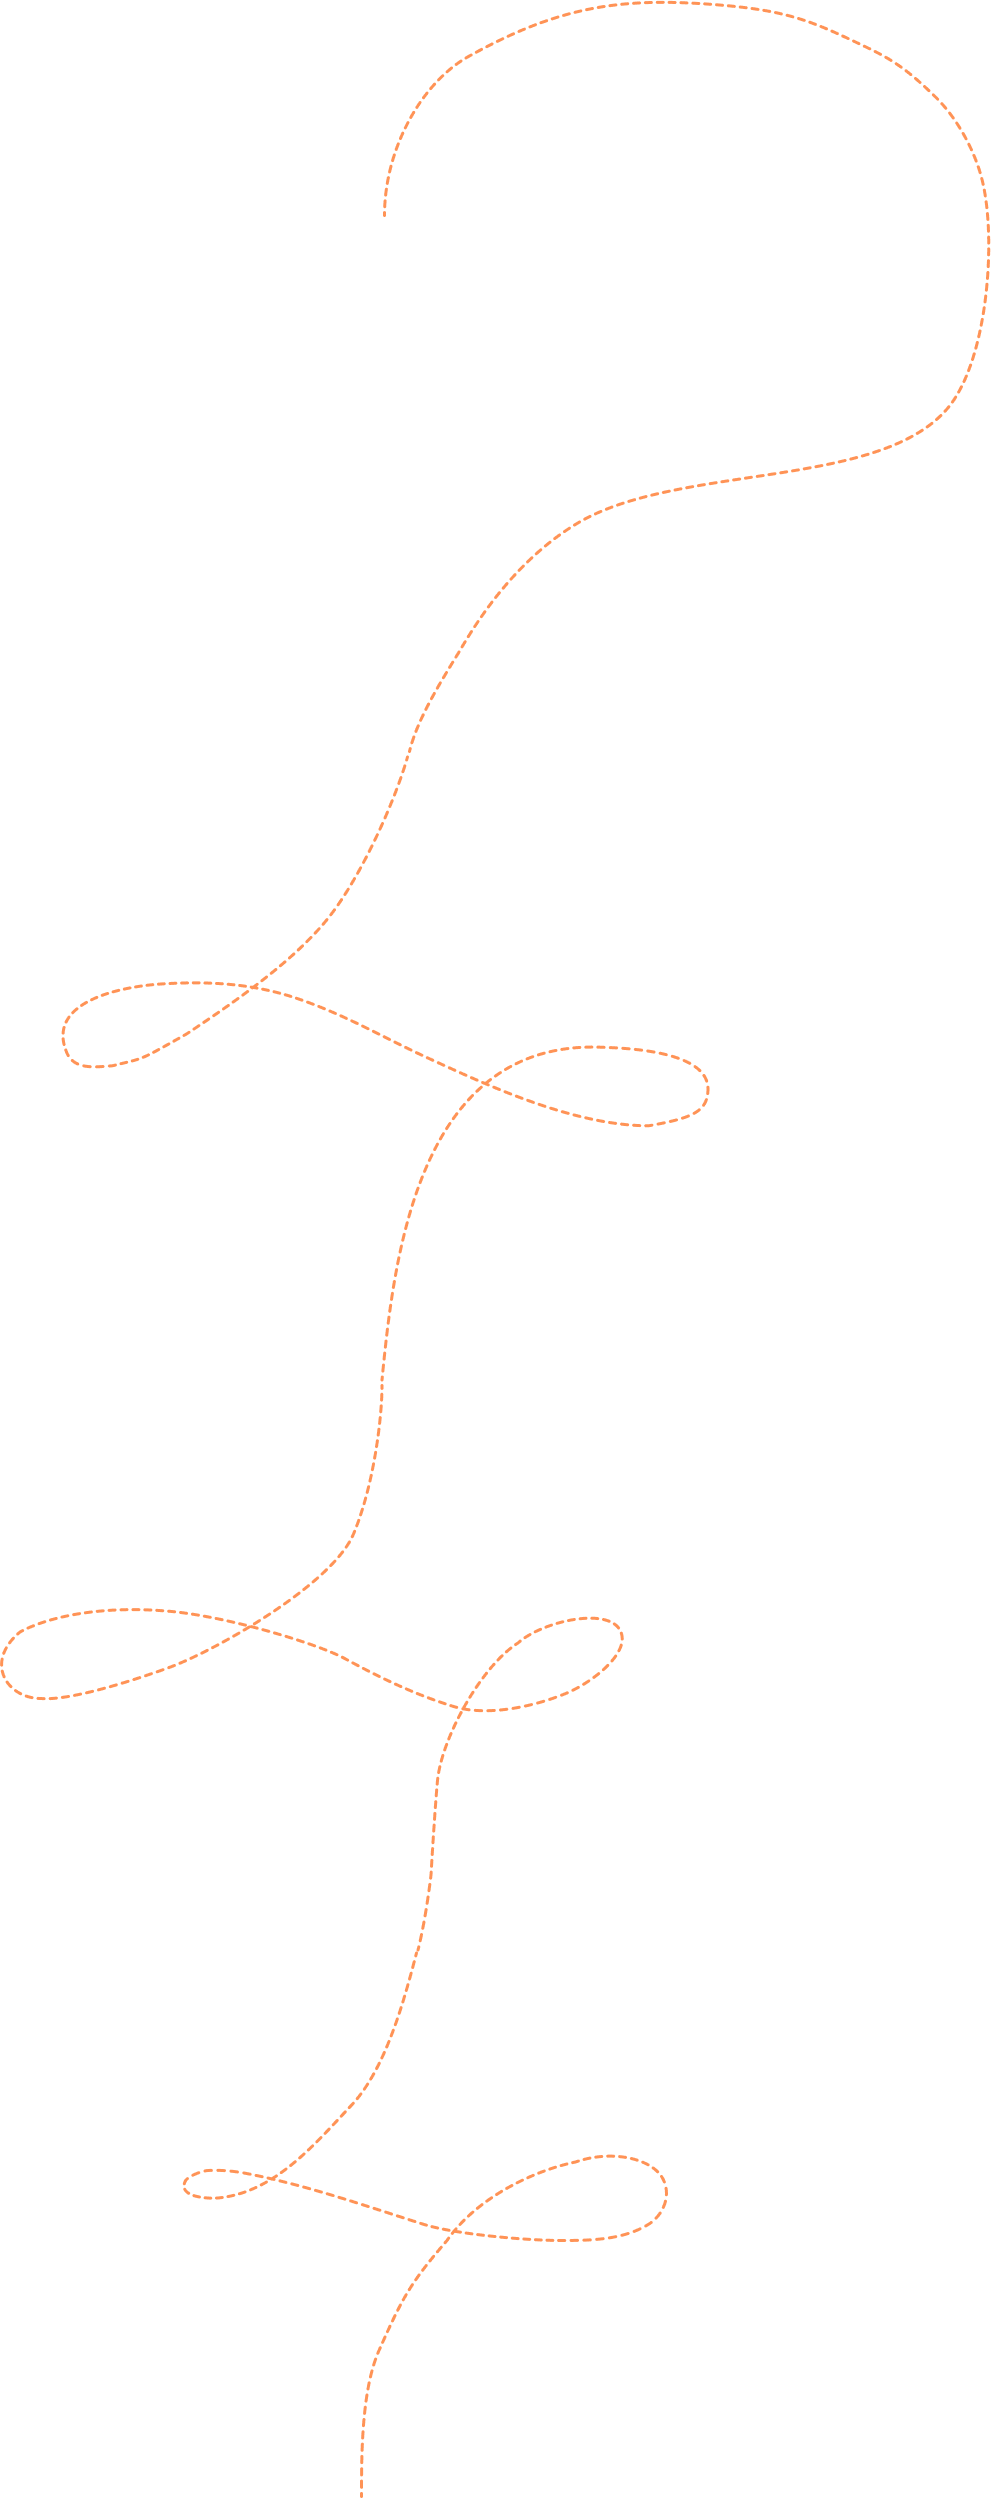
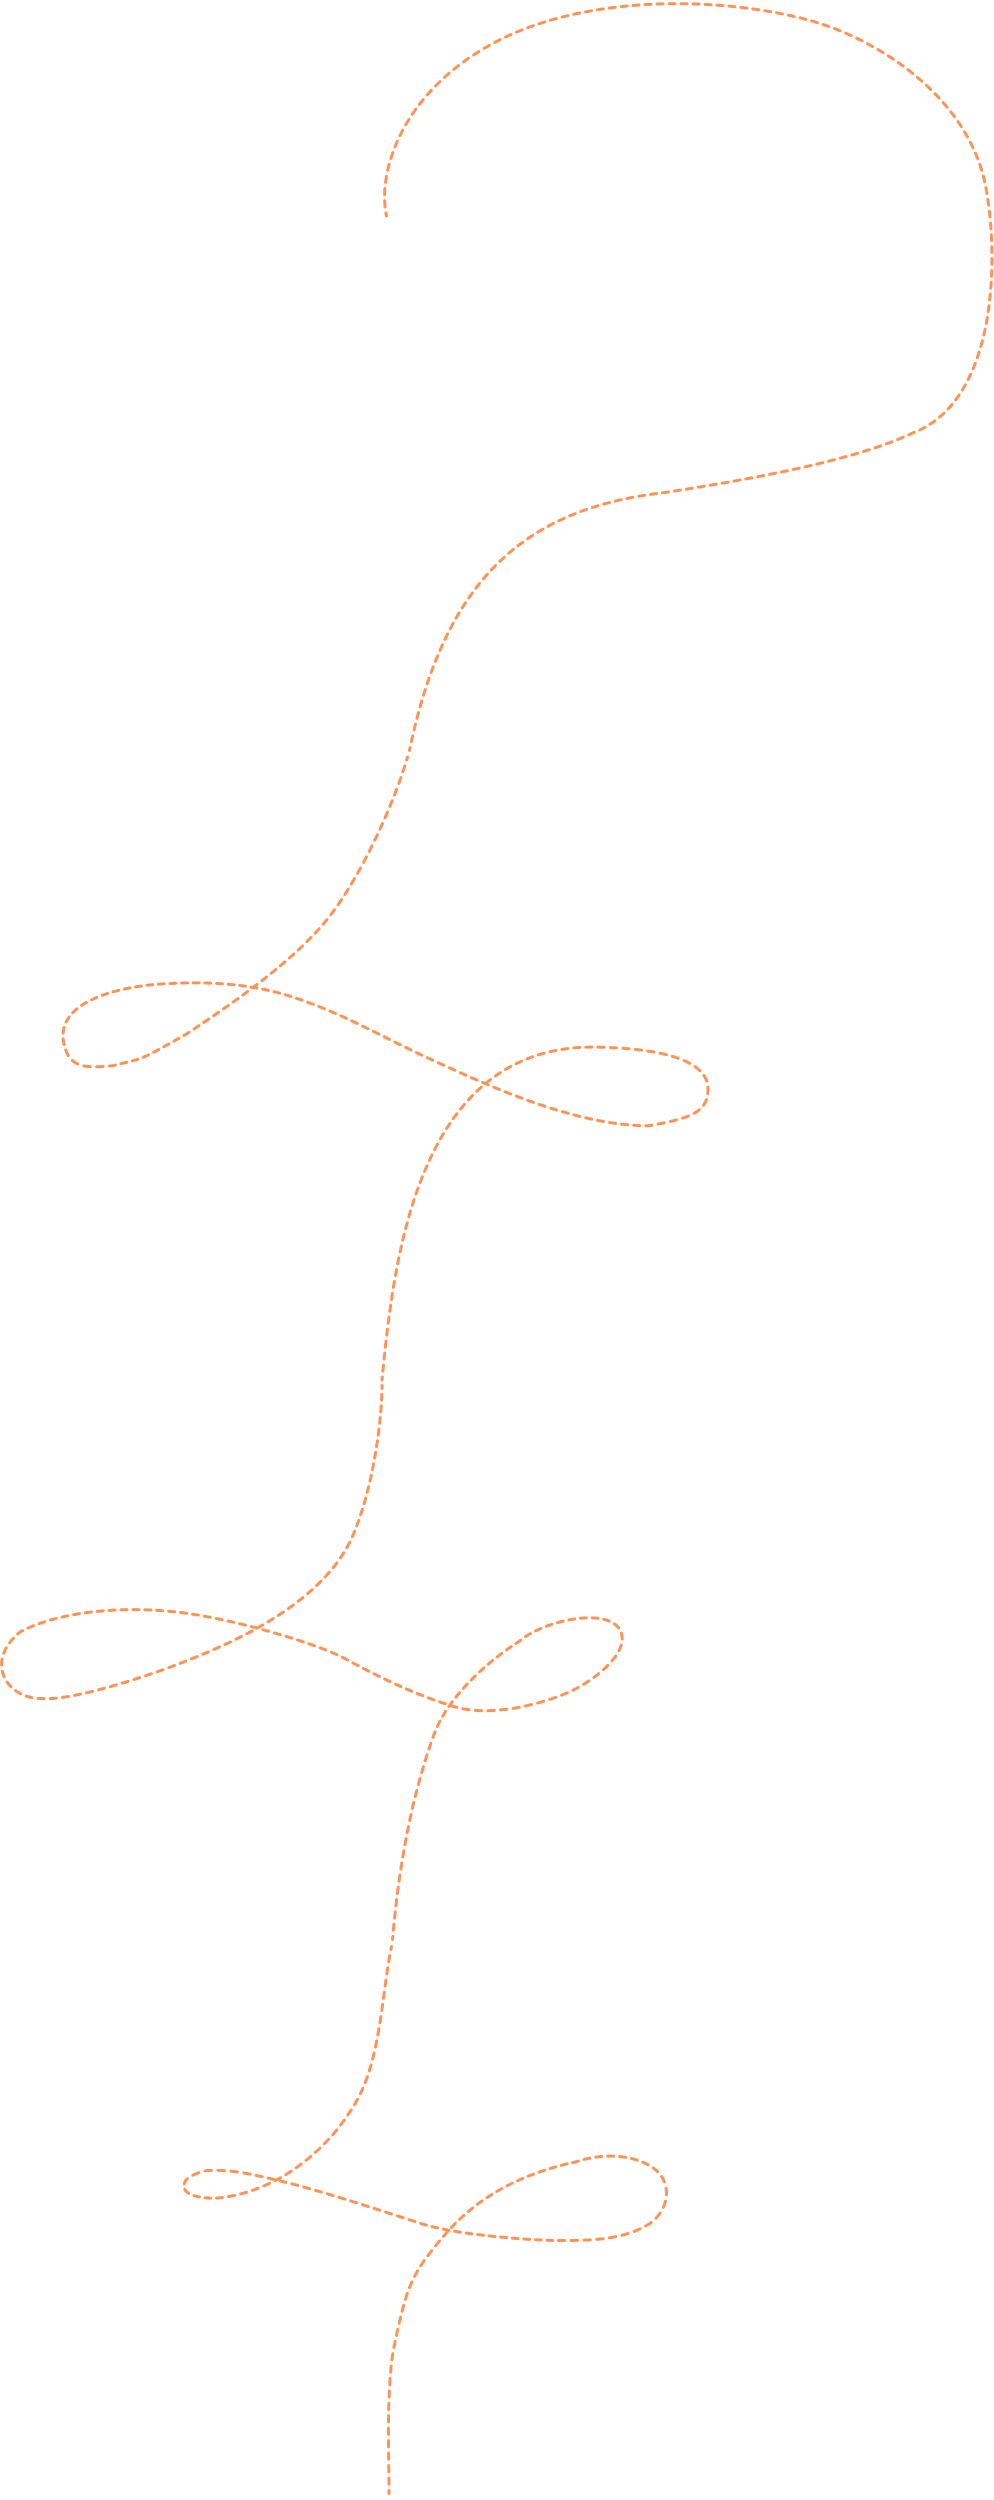
1-2-3-path home.jsx refractored

diff --git a/frontend/src/pages/About.jsx b/frontend/src/pages/About.jsx
@@ -1,6 +1,7 @@
 import React, { useEffect, useState } from "react";
 import classNames from "classnames";
 import {
+  AnimateNumber, 
   Button,
   Heading,
   StoryComponent,
@@ -29,7 +30,7 @@ const OPTS = {
 };
 
 const ILLUSTRATION_CLASS =
-  "max-w-[465px] rounded-full text-center basis-1/2 h-auto";
+  "rounded-full text-center basis-[40%] h-auto";
 
 export default function About() {
   document.querySelector("title").innerHTML = "About - AR Media House";
@@ -117,7 +118,7 @@ export default function About() {
           clientele steadily grew, laying the groundwork for what was to come."
           Image={
             <div className={ILLUSTRATION_CLASS}>
-              <img src="/assets/Story_pic.png" alt="" className="w-full" />
+              <img src="/assets/Story_pic.png" alt="pic" className="" />
             </div>
           }
           direction={1}
@@ -240,15 +241,39 @@ export default function About() {
 
         <div className="w-full pb-10 flex flex-col md:flex-row items-center justify-between gap-4">
           <div className="w-[90%] md:w-[20%] min-h-16 p-4 flex flex-col items-center rounded-lg bg-primary-500">
-            <h1 className="text-5xl font-bold">170+</h1>
+            <h1 className="text-5xl font-bold">
+              <AnimateNumber
+                className="inline"
+                from={0}
+                to={170}
+                duration={2.5}
+              />  
+              +
+            </h1>
             <p className="text-xl text-center font-semibold">Team Members</p>
           </div>
           <div className="w-[90%] md:w-[20%] min-h-16 p-4 flex flex-col items-center rounded-lg bg-tertiary-500">
-            <h1 className="text-5xl font-bold">5+</h1>
+            <h1 className="text-5xl font-bold">
+              <AnimateNumber
+                className="inline"
+                from={0}
+                to={5}
+                duration={2.5}
+              />
+              +
+            </h1>
             <p className="text-xl text-center font-semibold">Workstations</p>
           </div>
           <div className="w-[90%] md:w-[20%] min-h-16 p-4 flex flex-col items-center rounded-lg bg-primary-500">
-            <h1 className="text-5xl font-bold">3000+</h1>
+            <h1 className="text-5xl font-bold">
+              <AnimateNumber
+                className="inline"
+                from={0}
+                to={3000}
+                duration={2.5}
+              />
+              +
+            </h1>
             <p className="text-xl text-center font-semibold">Happy Clients</p>
           </div>
         </div>

diff --git a/frontend/src/components/HomePage3StepPath.jsx b/frontend/src/components/HomePage3StepPath.jsx
@@ -3,14 +3,13 @@ import { motion, useScroll } from "framer-motion";
 import classNames from 'classnames';
 
 export default function HomePage3StepPath({className}) {
-  const classes = classNames("py-[30vh]", {
+  const classes = classNames("", {
     [className]: className,
   });
-
   const pathRef = useRef(null);
   const { scrollYProgress } = useScroll({
     target: pathRef,
-    offset: ["start start", "end start"],
+    offset: ["start 0.5", "end 0.4"],
   });
 
   return (
@@ -19,7 +18,7 @@ export default function HomePage3StepPath({className}) {
         <motion.path 
           d="M139.817 50.1423V465.684H229.52V805.478H130V1048.19" 
           stroke="#080403" 
-          strokeWidth={1.5}
+          strokeWidth={1.8}
           style={{pathLength: scrollYProgress}}
         />
         <path d="M112.136 1060.43C132.094 1067.91 153.958 1056.71 160.971 1035.42C167.984 1014.13 157.49 990.803 137.533 983.321C117.575 975.839 95.7113 987.034 88.6982 1008.33C81.6852 1029.62 92.1787 1052.94 112.136 1060.43Z" fill="#FF9356"/>

diff --git a/frontend/src/pages/Home.jsx b/frontend/src/pages/Home.jsx
@@ -181,8 +181,8 @@ export default function Home() {
           subHeadingClassName="text-center"
         />
 
-        {/* <img src="./assets/1-2-3-path.svg" alt="steps" className="hidden lg:block absolute z-10 mt-8 h-[200vh] left-[50%] translate-x-[-60%]"/> */}
-        <HomePage3StepPath className="hidden lg:block absolute top-[-6%] z-10 h-[320vh] left-[49%] translate-x-[-60%]" />
+        <div className="relative"> {/*  1-2-3-path wrapper */}
+        <HomePage3StepPath className="hidden lg:block absolute z-10 top-24 xl:top-36 left-[49%] translate-x-[-60%]" />
 
         <Section
           backgroundClassName="bg-tertiary-500 py-4"
@@ -236,6 +236,7 @@ export default function Home() {
           }
           direction={-1}
         />
+        </div>
       </section>
 
 

diff --git a/frontend/src/components/StoryComponent.jsx b/frontend/src/components/StoryComponent.jsx
@@ -25,7 +25,7 @@ const StoryComponent = ({
       "md:flex-row": direction && direction > 0,
     }
   );
-  const headingClasses = classNames("font-playfair-display text-3xl sm:text-4xl md:text-5xl leading-1.2 font-bold text-primary-500", {
+  const headingClasses = classNames("font-playfair-display text-3xl sm:text-4xl md:text-5xl font-bold text-primary-500 !leading-[2.6rem]", {
     [headingClassName]: headingClassName,
   });
 
@@ -38,7 +38,7 @@ const StoryComponent = ({
     [textClassName]: textClassName,
     "text-secondary-500": !textClassName,
   });
-  const divClasses = classNames("flex flex-col justify-center basis-1/2 gap-10 ", {});
+  const divClasses = classNames("flex flex-col justify-center basis-[40%] gap-6 ", {});
 
   return (
     <>
